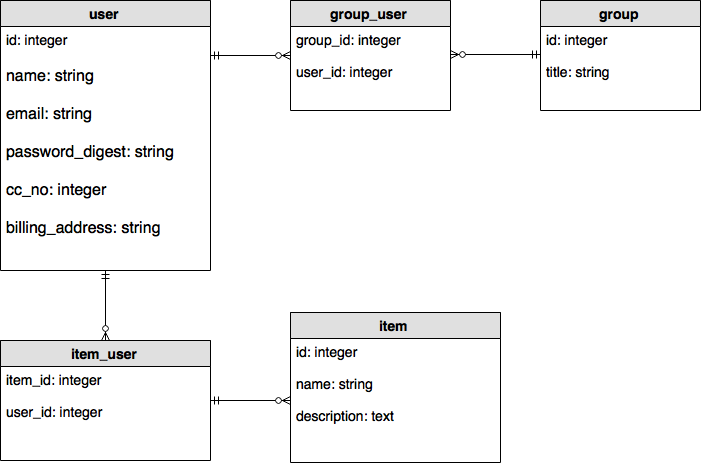
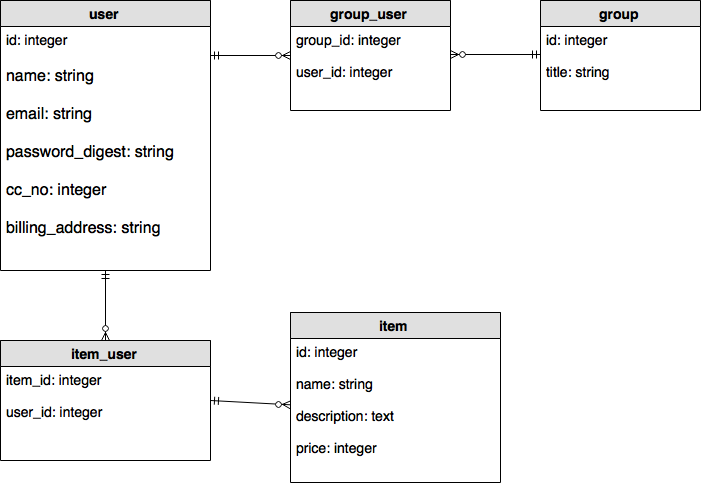
update views and controllers for items

diff --git a/fundApp/db/schema.rb b/fundApp/db/schema.rb
@@ -11,13 +11,15 @@
 #
 # It's strongly recommended that you check this file into your version control system.
 
-ActiveRecord::Schema.define(version: 20150728204237) do
+ActiveRecord::Schema.define(version: 20150728214645) do
 
   create_table "items", force: :cascade do |t|
     t.string   "name"
     t.text     "description"
     t.datetime "created_at",  null: false
     t.datetime "updated_at",  null: false
+    t.float    "price"
+    t.string   "picture"
   end
 
   create_table "users", force: :cascade do |t|

diff --git a/fundApp/config/routes.rb b/fundApp/config/routes.rb
@@ -1,13 +1,10 @@
 Rails.application.routes.draw do
 
-  get 'items/index'
-
-  get 'items/show'
-
   root "users#index"
   get '/logout' => 'sessions#destroy'
   resources :sessions, only: [:new, :create, :destroy]
   resources :users
+  resources :items
 
   # The priority is based upon order of creation: first created -> highest priority.
   # See how all your routes lay out with "rake routes".

diff --git a/fundApp/app/controllers/items_controller.rb b/fundApp/app/controllers/items_controller.rb
@@ -1,7 +1,9 @@
 class ItemsController < ApplicationController
   def index
+    @items = Item.all
   end
 
   def show
+    @item = Item.find(params[:id])
   end
 end

diff --git a/fundApp/db/migrate/20150728214645_add_picture_to_items.rb b/fundApp/db/migrate/20150728214645_add_picture_to_items.rb
@@ -1,0 +1,5 @@
+class AddPictureToItems < ActiveRecord::Migration
+  def change
+    add_column :items, :picture, :string
+  end
+end

diff --git a/fundApp/db/migrate/20150728212853_add_price_to_items.rb b/fundApp/db/migrate/20150728212853_add_price_to_items.rb
@@ -1,0 +1,5 @@
+class AddPriceToItems < ActiveRecord::Migration
+  def change
+    add_column :items, :price, :float
+  end
+end
